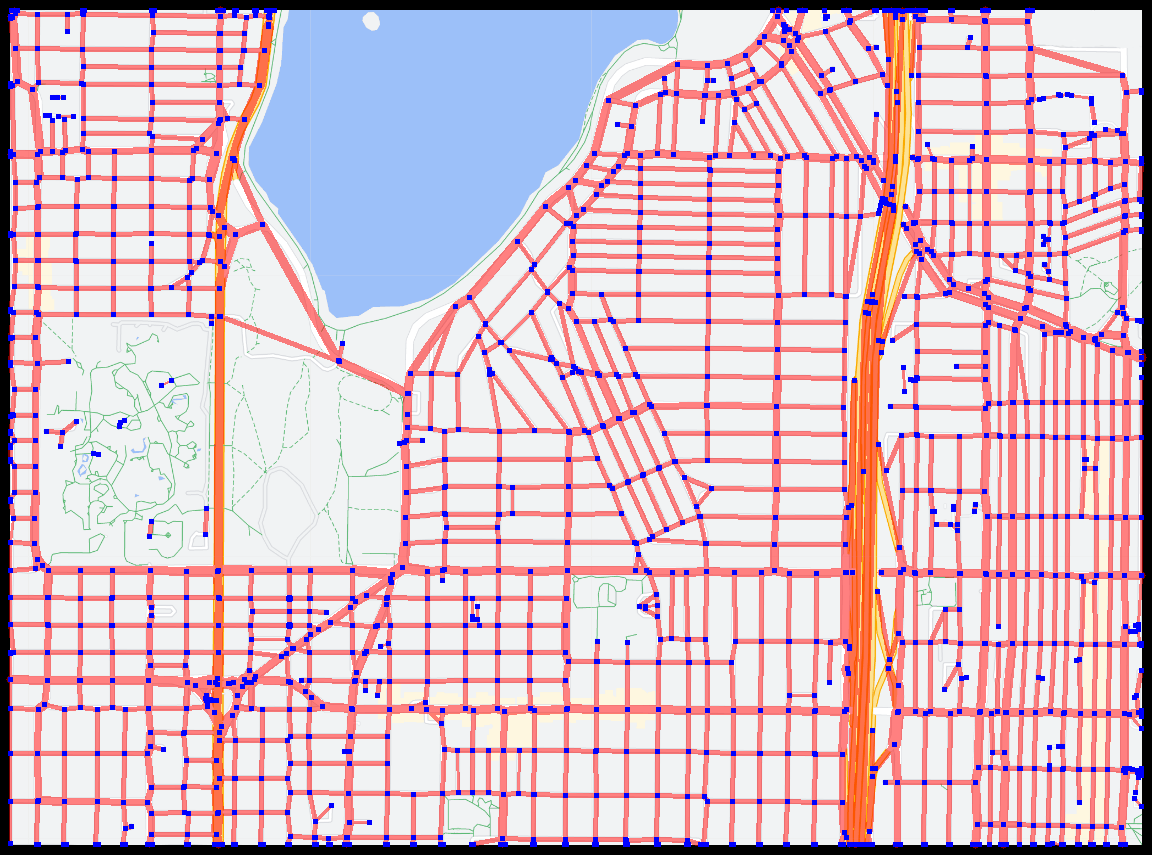
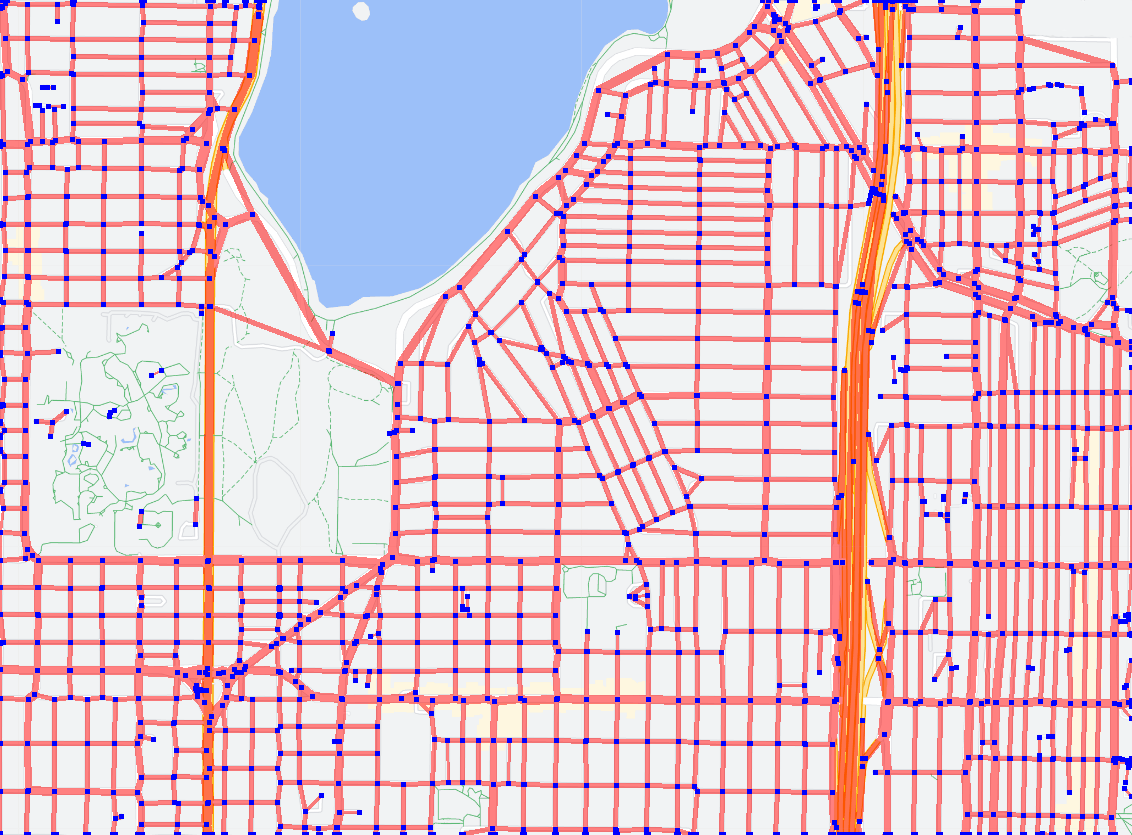
remove the added padding from output

diff --git a/main.py b/main.py
@@ -7,7 +7,6 @@ from breadth_first_edge_detection import breadth_first_edge_detection
 from draw import draw_graph
 import sys
 
-print(sys.argv)
 img_path = sys.argv[1] if len(sys.argv) > 1 else None
 # check if the image path is valid else skip to use image_orig from cv2.imread
 if img_path:
@@ -54,23 +53,30 @@ dilated_img = cv2.dilate(thresh, kernel, iterations=1)
 # Perform thinning using Guo-Hall algorithm
 skeleton = cv_algorithms.guo_hall(dilated_img)
 
+# Or, Perform thinning using Zhang-Suen algorithm
+# skeleton = cv_algorithms.zhang_suen(dilated_img)
+
+cv2.imwrite("./z-output/skeleton.png", skeleton)
 # add padding to get nodes from the image borders which start from white color
+pad = 10
 skeleton = cv2.copyMakeBorder(
-    skeleton, 10, 10, 10, 10, cv2.BORDER_CONSTANT, value=[0, 0, 0])
-image = cv2.copyMakeBorder(dilated_img, 10, 10, 10, 10,
-                           cv2.BORDER_CONSTANT, value=[0, 0, 0])
+    skeleton, pad, pad, pad, pad, cv2.BORDER_CONSTANT, value=[0, 0, 0])
+image = cv2.copyMakeBorder(
+    dilated_img, pad, pad, pad, pad, cv2.BORDER_CONSTANT, value=[0, 0, 0])
 
 # detect nodes
 graph = zhang_suen_node_detection(skeleton)
 # detect edges
 graph = breadth_first_edge_detection(skeleton, image, graph)
-
 # draw the graph
 image = cv2.cvtColor(image, cv2.COLOR_GRAY2BGR)
 
-image_orig = cv2.copyMakeBorder(image_orig, 10, 10, 10, 10,
-                                cv2.BORDER_CONSTANT, value=[0, 0, 0])
+# add padding to the original image to draw the graph plots on it
+image_orig = cv2.copyMakeBorder(
+    image_orig, pad, pad, pad, pad, cv2.BORDER_CONSTANT, value=[0, 0, 0])
 graph_img = draw_graph(image_orig, graph)
+# remove the padding
+graph_img = graph_img[pad:-pad, pad:-pad]
 
 # save the graph image
 cv2.imwrite("./z-output/graph.png", graph_img)
